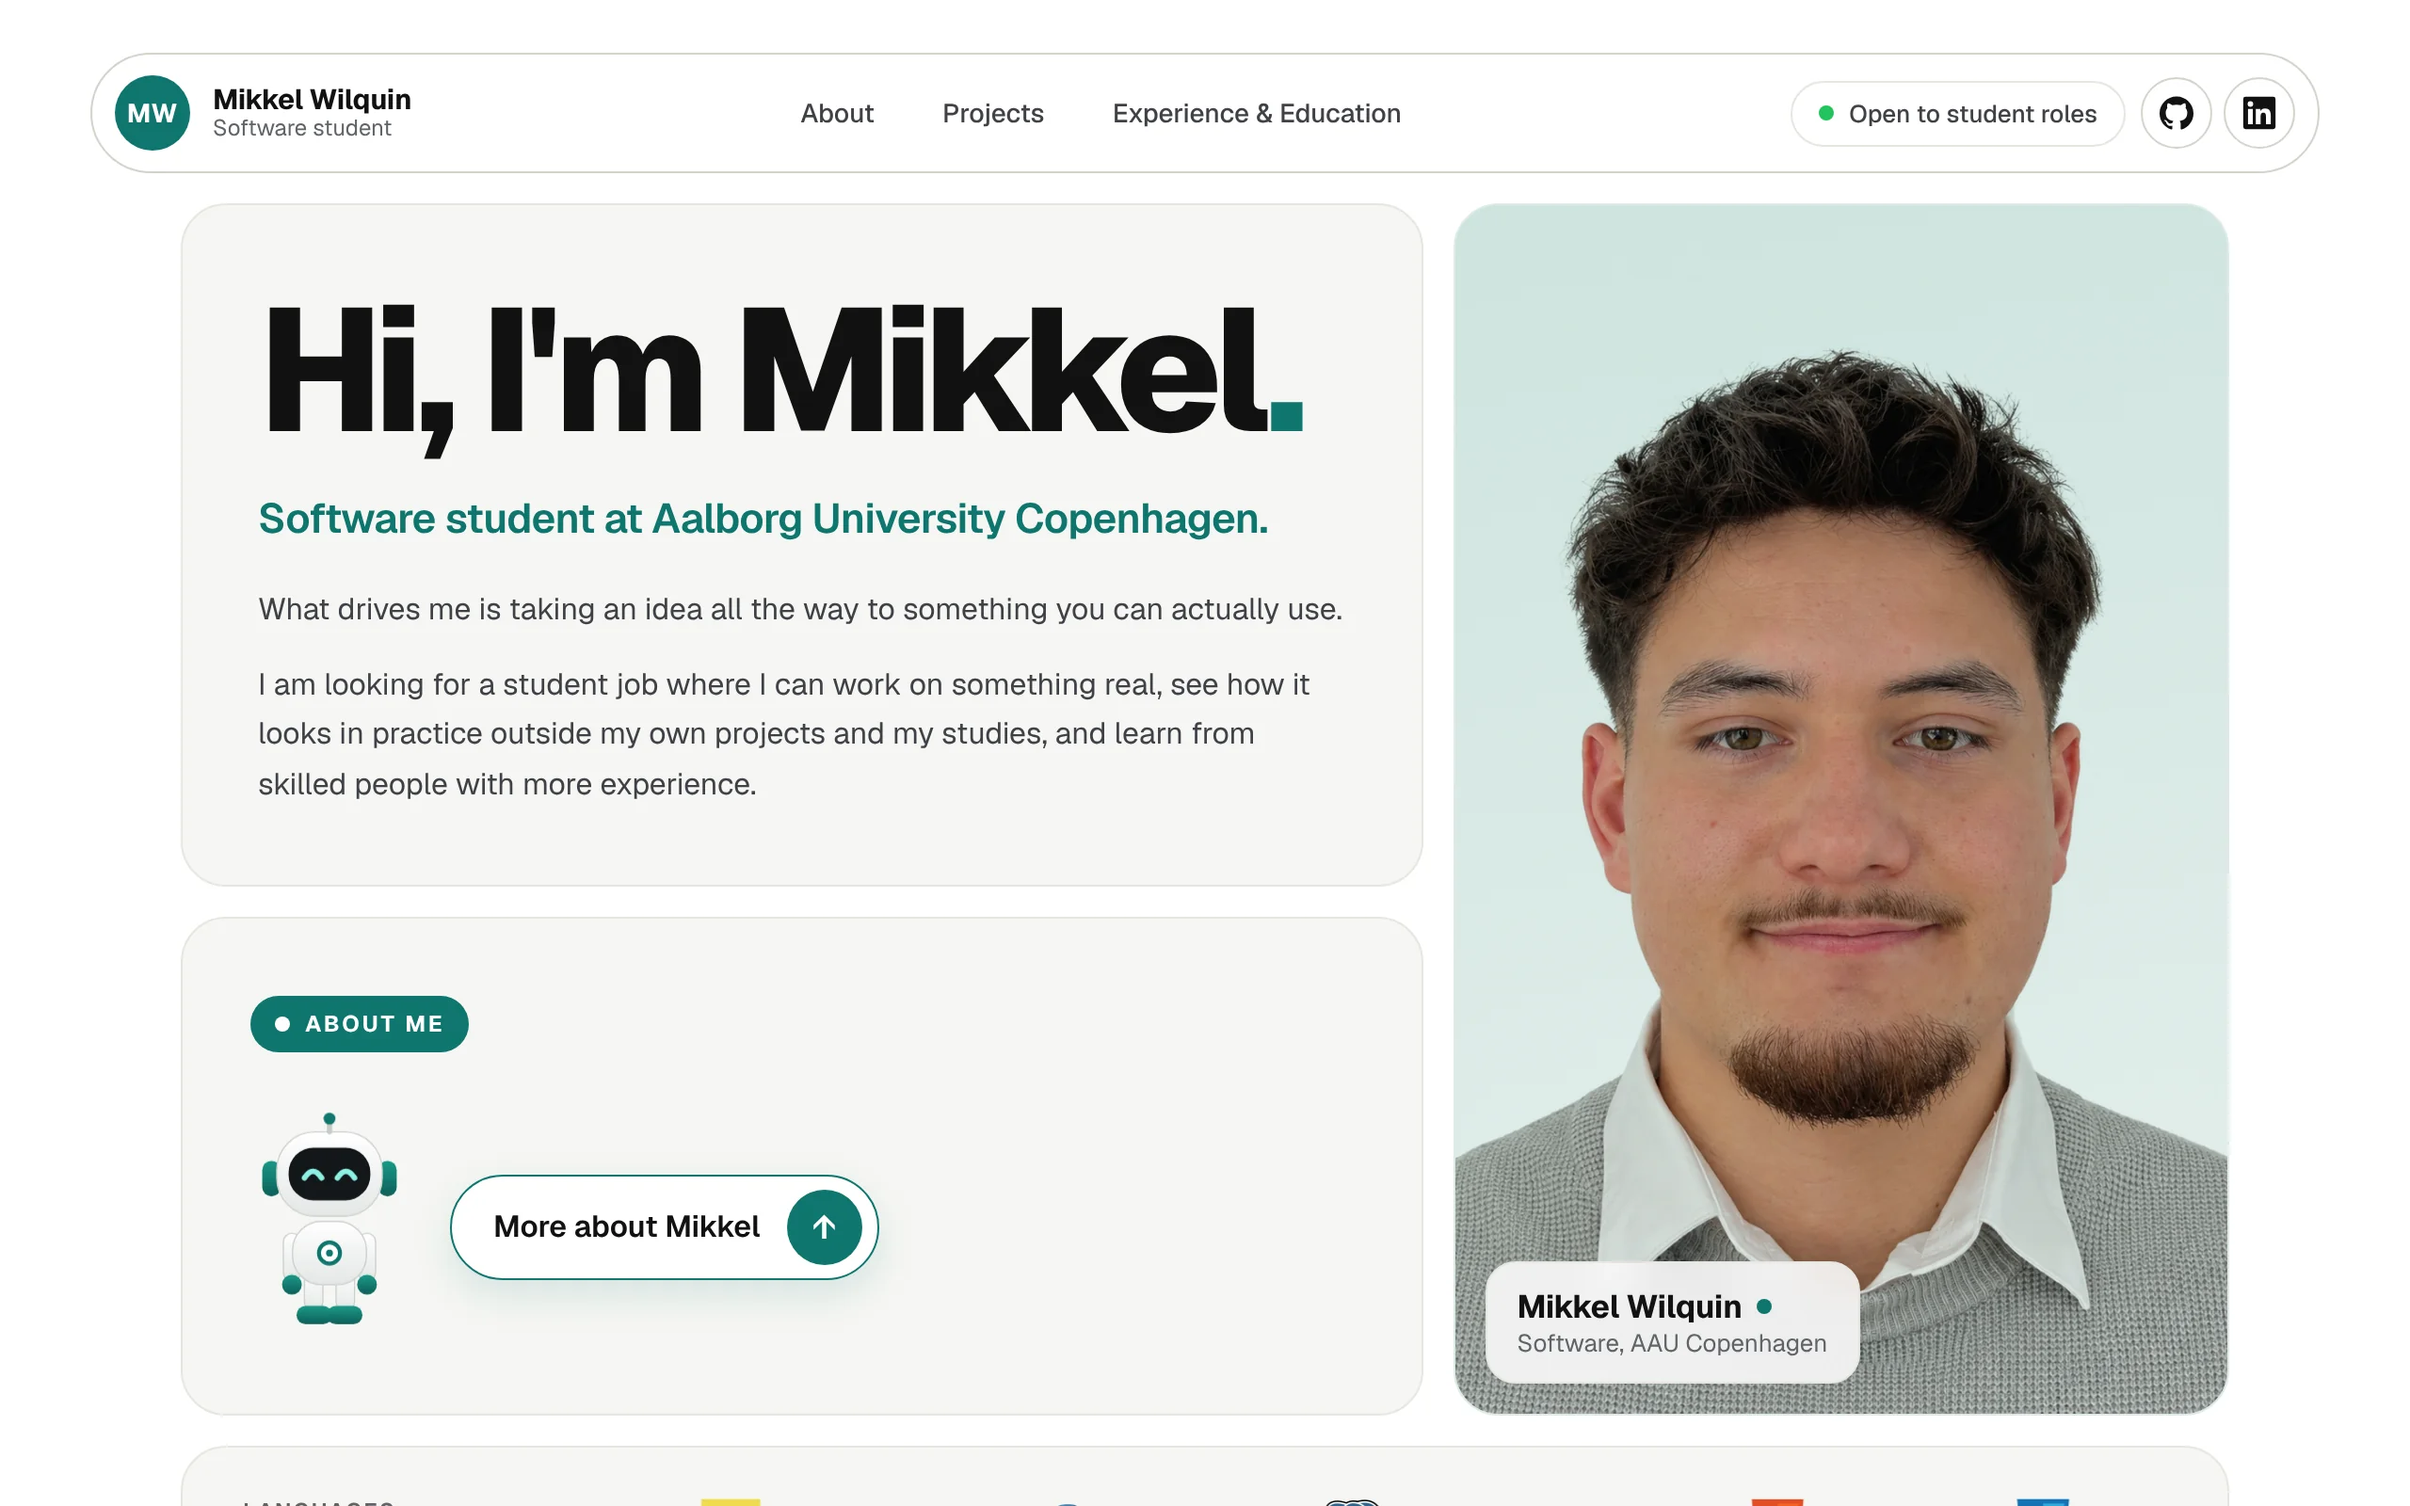
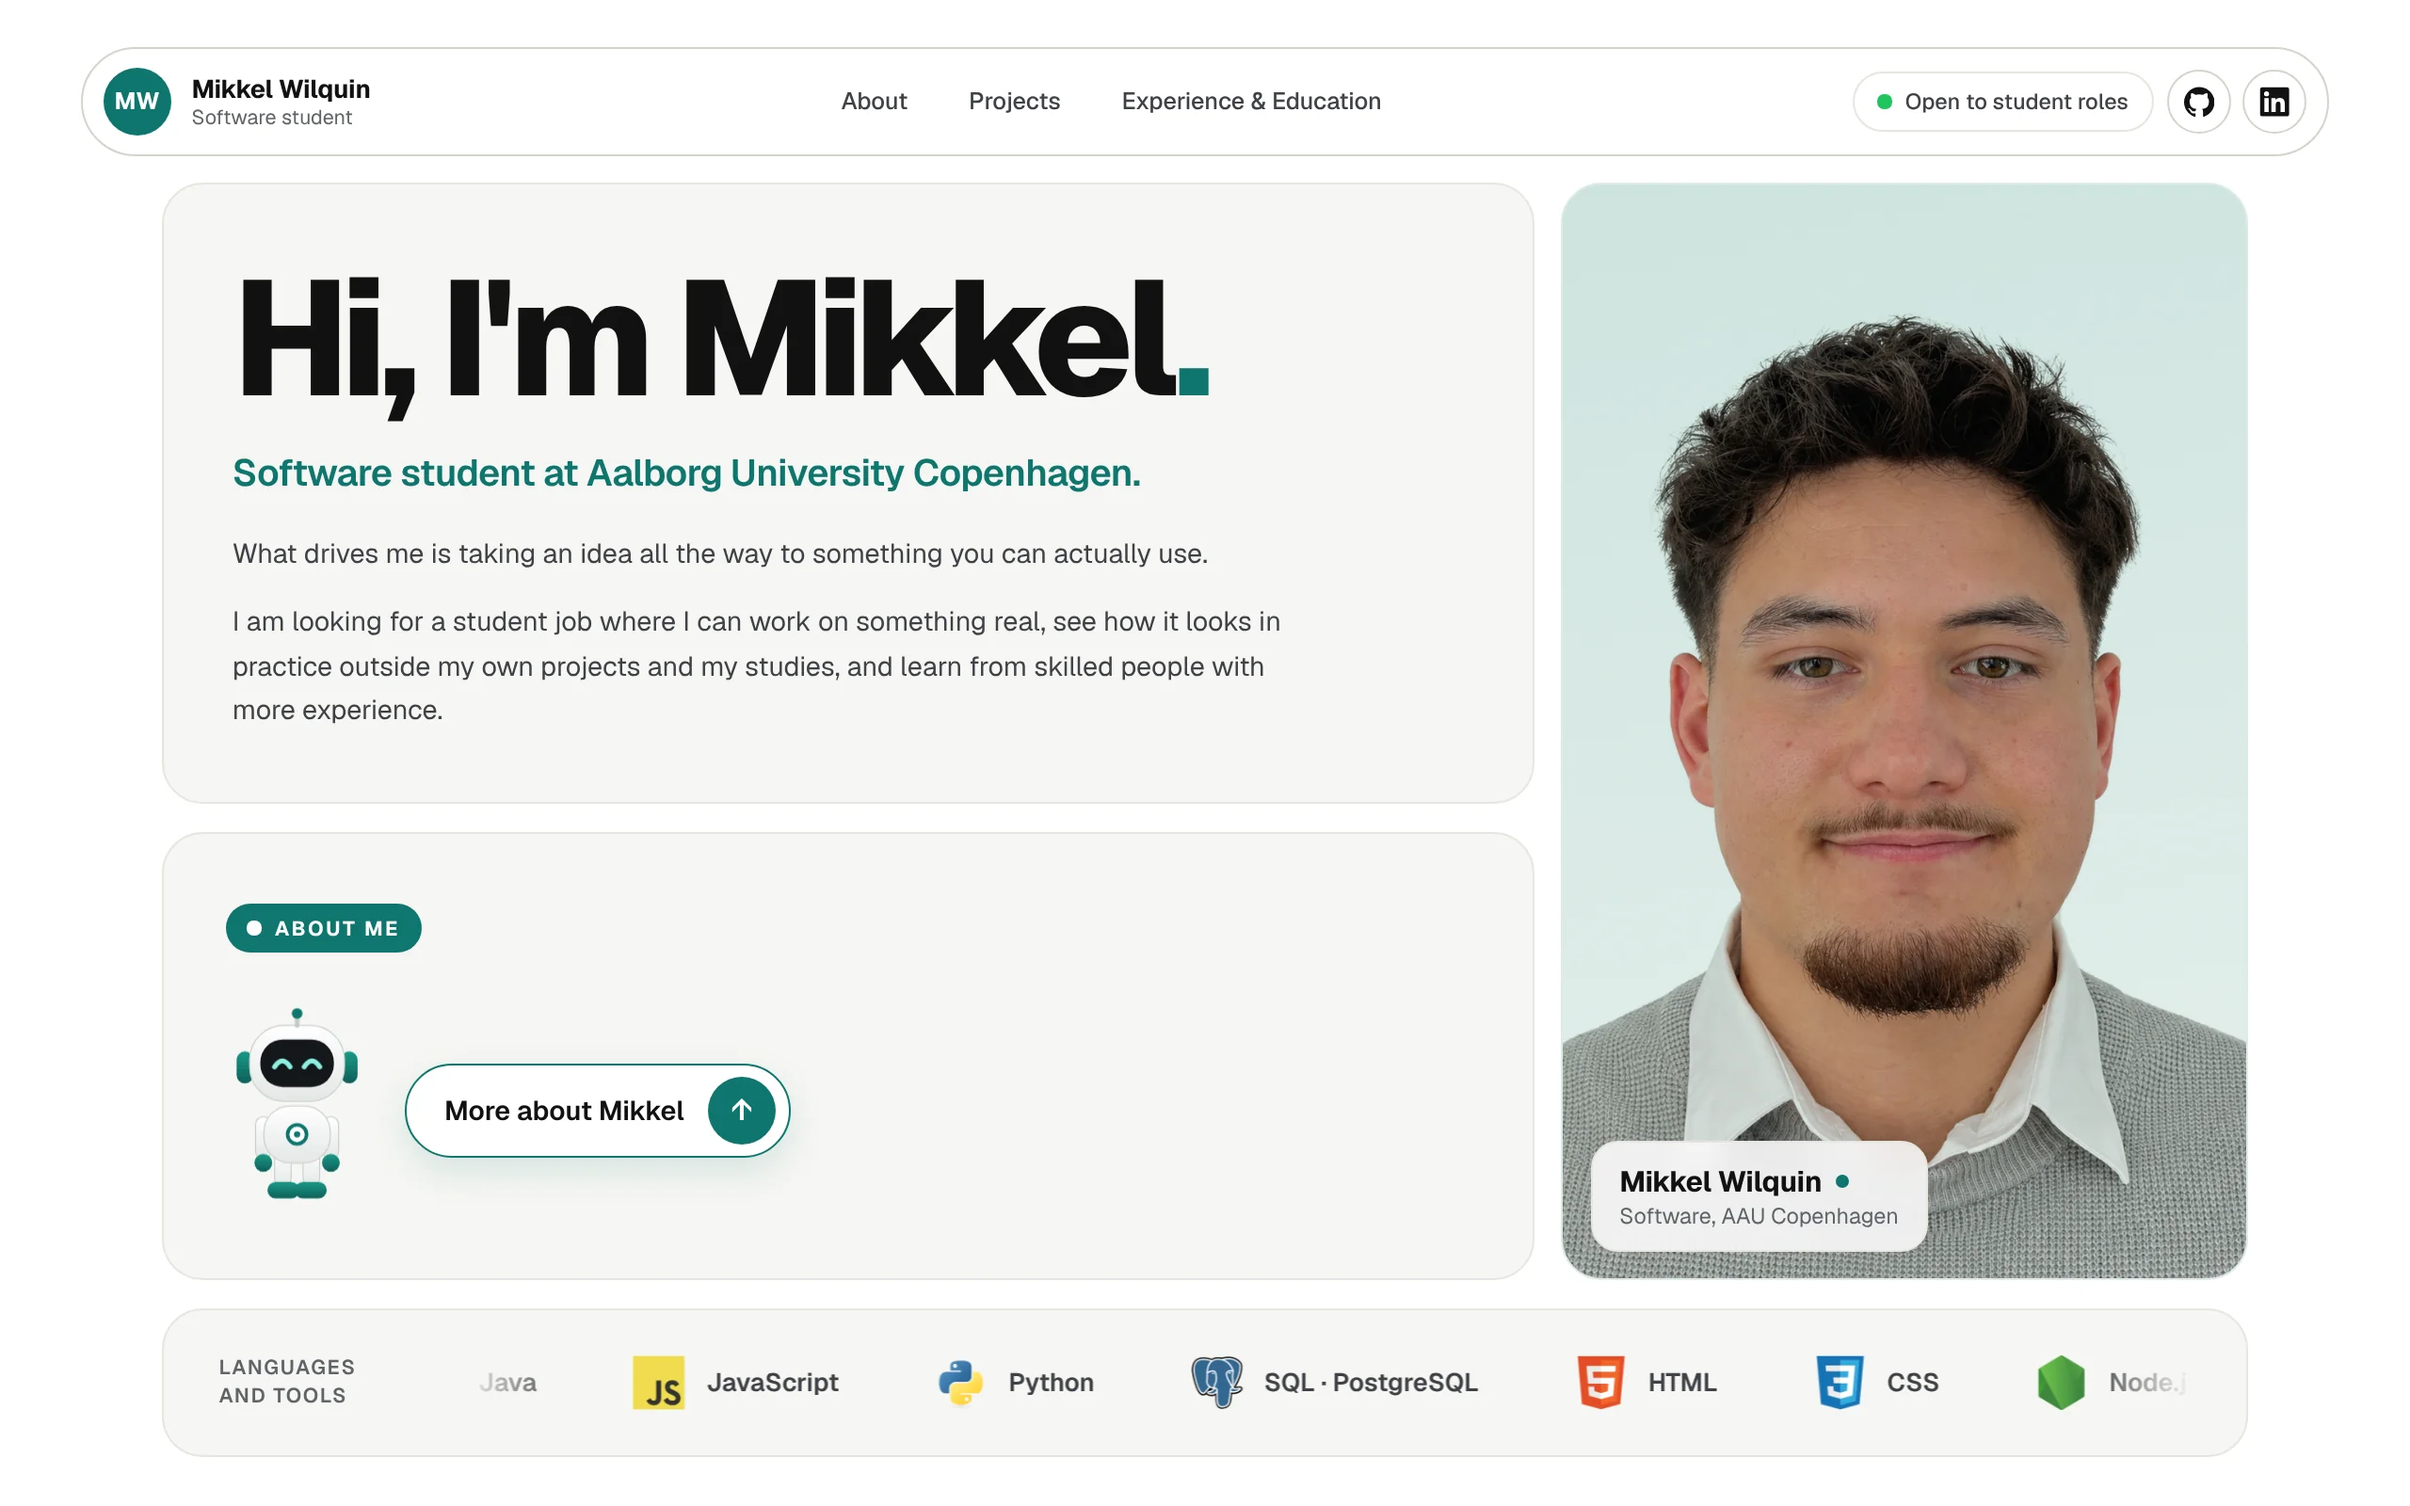
Scale the page down a little and make the portrait narrower

diff --git a/portfolio-web/src/components/About.jsx b/portfolio-web/src/components/About.jsx
@@ -65,13 +65,14 @@ function About(){
             if (!alive) return
             cls('think', false)
             const from = bot.getBoundingClientRect()
-            const height = ask.getBoundingClientRect().height
+            const zoom = card.getBoundingClientRect().width / card.offsetWidth || 1
+            const height = ask.getBoundingClientRect().height / zoom
             slot.appendChild(bot)
             const to = bot.getBoundingClientRect()
             ask.animate([{ height: height + 'px', opacity: 1 }, { height: '0px', paddingTop: '0px', paddingBottom: '0px', opacity: 0 }], { duration: 600, easing: 'cubic-bezier(.2,.8,.2,1)', fill: 'forwards' })
             reveal.classList.add('open')
-            const dx = from.left - to.left
-            const dy = from.bottom - to.bottom
+            const dx = (from.left - to.left) / zoom
+            const dy = (from.bottom - to.bottom) / zoom
             const scale = from.width / to.width
             bot.animate([
                 { transform: `translate(${dx}px,${dy}px) scale(${scale})` },

diff --git a/portfolio-web/src/App.jsx b/portfolio-web/src/App.jsx
@@ -20,14 +20,16 @@ function App() {
 
   return(
       <>
-      <Header />
-      <div className="top">
-        <Hero />
-        <About />
+      <div className="site">
+        <Header />
+        <div className="top">
+          <Hero />
+          <About />
+        </div>
+        <TechBand />
+        <Projects projects={projects} />
+        <Timeline />
       </div>
-      <TechBand />
-      <Projects projects={projects} />
-      <Timeline />
       {!entered && <GuideIntro onEnter={() => setEntered(true)} />}
       </>
 )}  

diff --git a/portfolio-web/src/intro/config.js b/portfolio-web/src/intro/config.js
@@ -39,7 +39,7 @@ export const COPY = {
 
 // Where the robot's cursor clicks in the 1280x800 screenshot (page pixels).
 // Change it if you move things on your front page.
-export const SITE_BUTTON = { x: 414, y: 197 }
+export const SITE_BUTTON = { x: 382, y: 179 }
 
 // Idle wandering and walking (seconds). The wandering loops forever until the visitor picks something.
 export const WALK = { lead: 1.2, move: 2.4, pause: 1.1, step: 0.6, speed: 230 }

diff --git a/portfolio-web/src/App.css b/portfolio-web/src/App.css
@@ -1,6 +1,12 @@
+@media (min-width: 901px) {
+  .site {
+    zoom: 0.9;
+  }
+}
+
 .top {
   display: grid;
-  grid-template-columns: minmax(0, 1.6fr) minmax(0, 1fr);
+  grid-template-columns: minmax(0, 2fr) minmax(0, 1fr);
   gap: 16px;
   margin: 16px var(--gutter) 0;
 }
